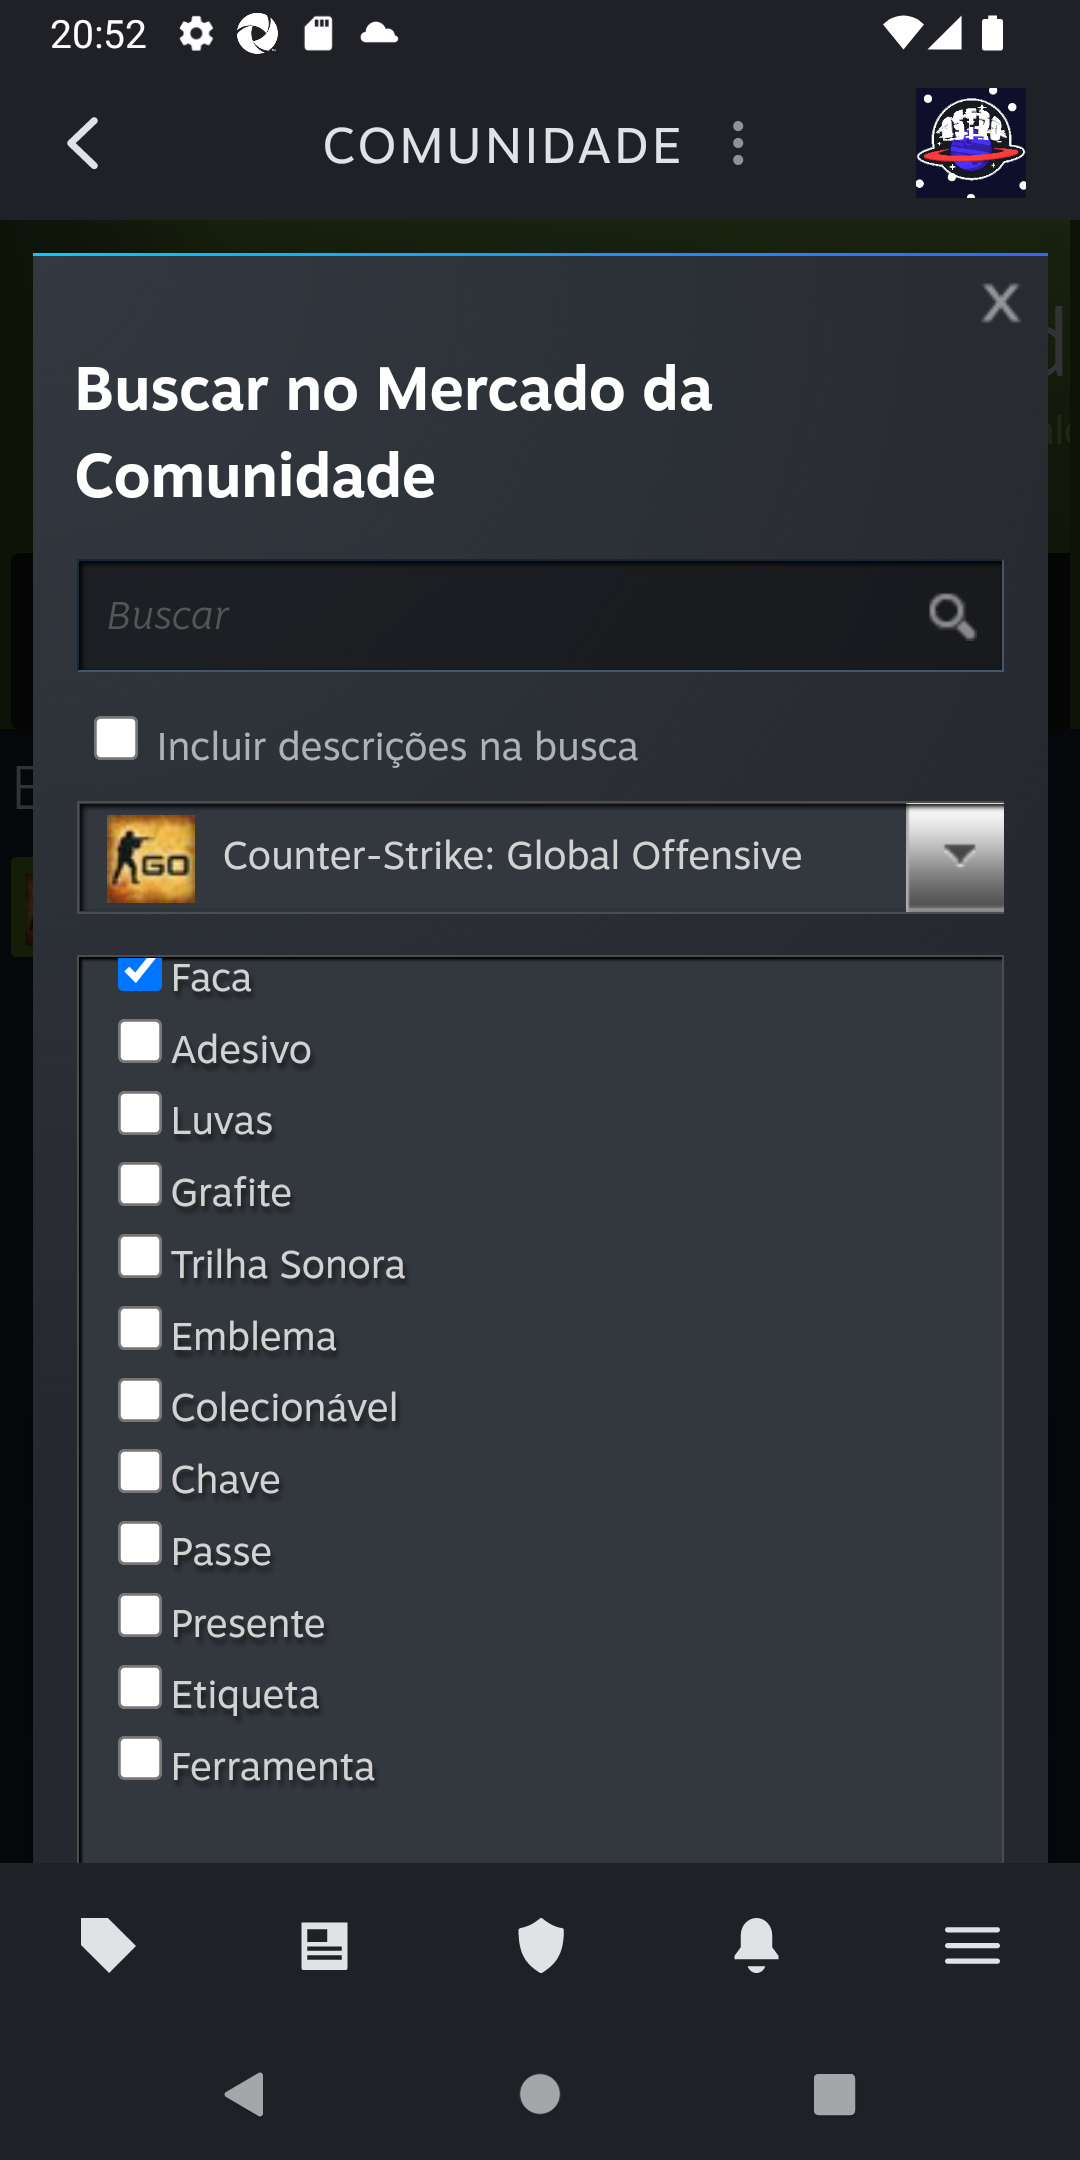
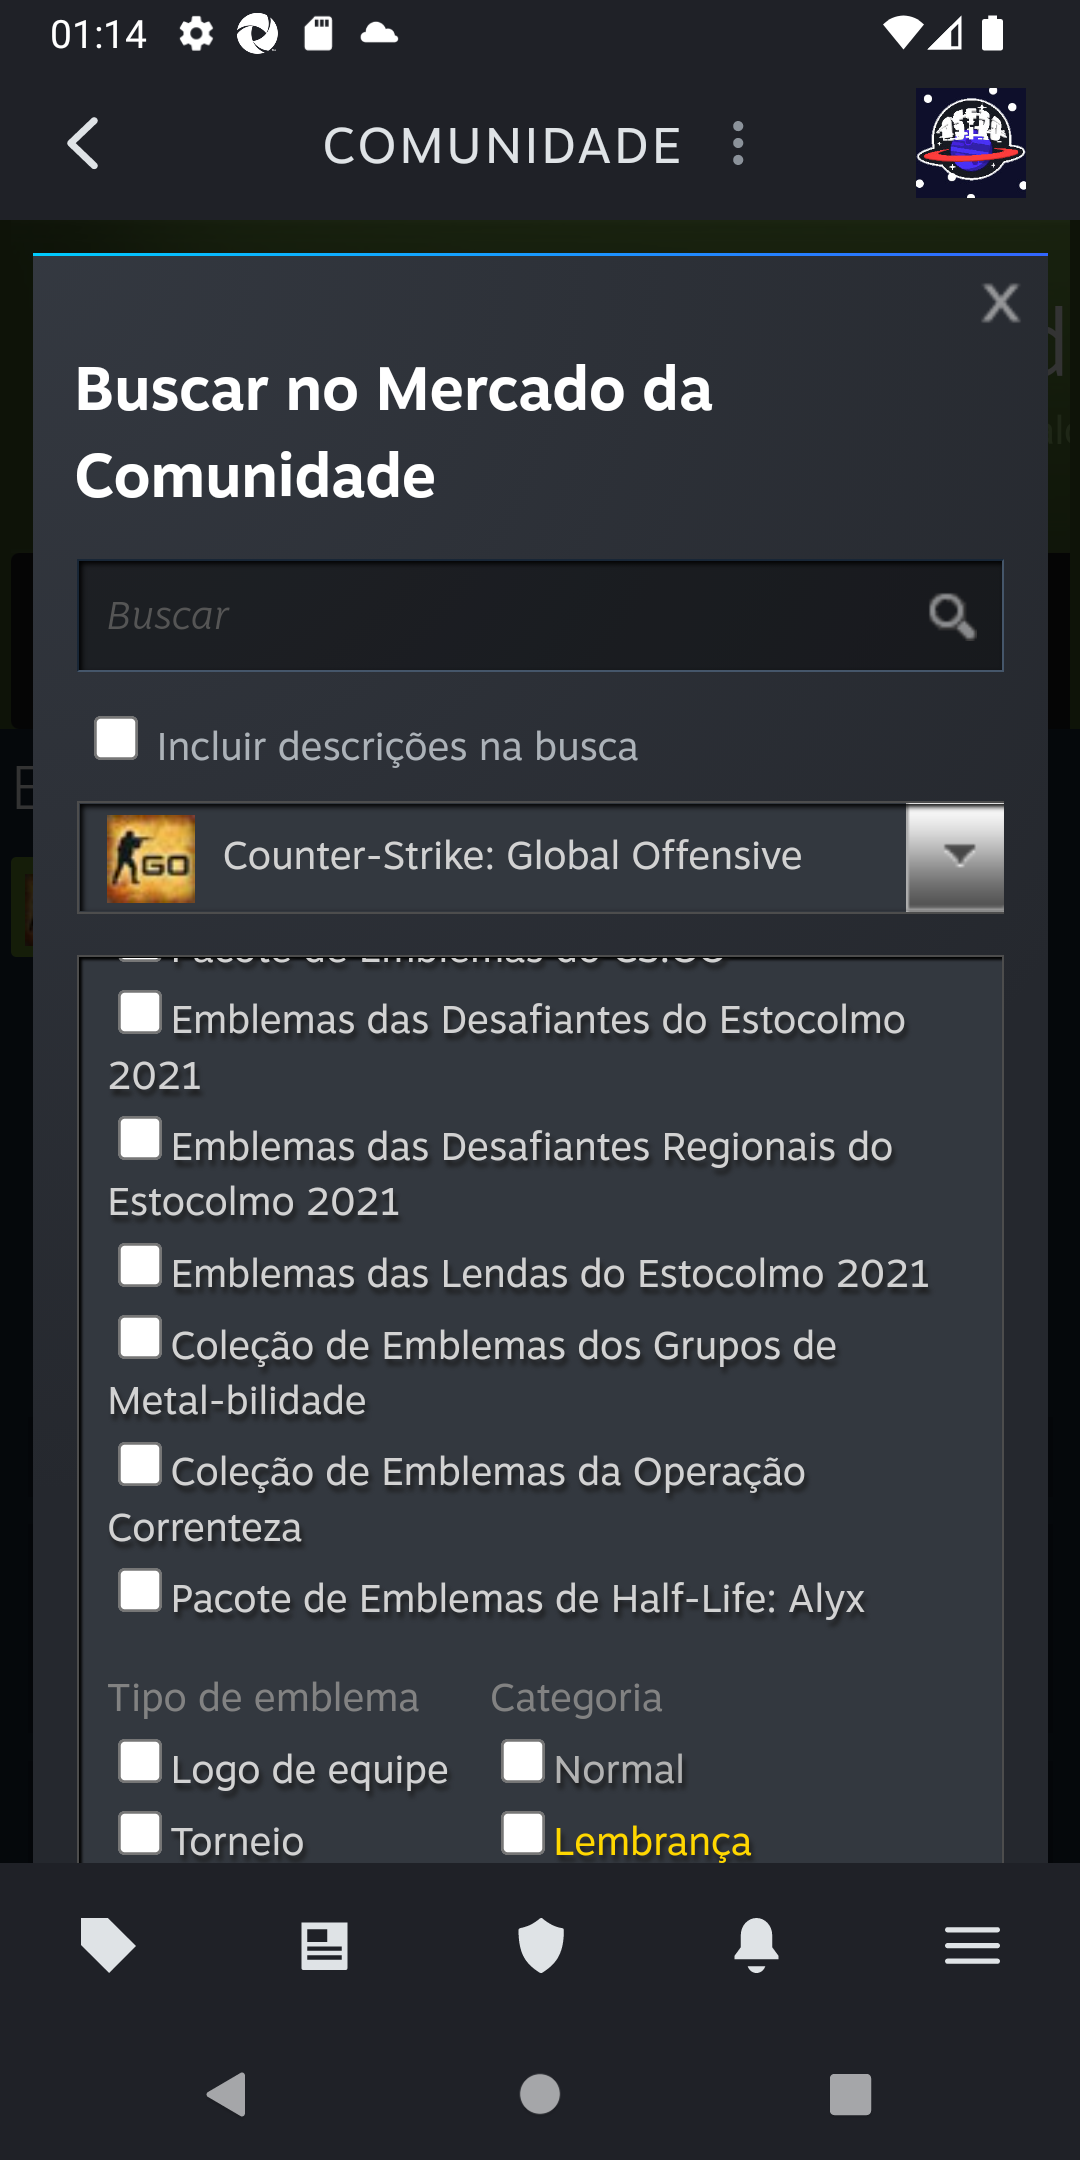
Correção do bug de escolher outro jogo, correção do scroll por filtro de faca

diff --git a/src/test/java/pages/MercadoComunidadeHomePO.java b/src/test/java/pages/MercadoComunidadeHomePO.java
@@ -20,7 +20,6 @@ public class MercadoComunidadeHomePO extends BasePage {
     public MercadoComunidadeHomePO(AndroidDriver driver) {
         super(driver);
     }
-
     Metodos metodos = new Metodos(driver);
     WebDriverWait wait = new WebDriverWait(driver, Duration.ofSeconds(30));
 
@@ -28,8 +27,9 @@ public class MercadoComunidadeHomePO extends BasePage {
 
         wait.until(ExpectedConditions.presenceOfElementLocated(By.xpath("//*[@content-desc=\"Anunciar um item\"]")));
         driver.findElement(By.xpath("/hierarchy/android.widget.FrameLayout/android.widget.LinearLayout/android.widget.FrameLayout/android.widget.LinearLayout/android.widget.FrameLayout/android.widget.FrameLayout/android.view.ViewGroup[2]/android.view.ViewGroup/android.view.ViewGroup/android.view.ViewGroup/android.view.ViewGroup/android.view.ViewGroup/android.view.ViewGroup/android.view.ViewGroup[1]/android.view.ViewGroup/android.view.ViewGroup/android.view.ViewGroup/android.view.ViewGroup[2]/android.view.ViewGroup[1]/android.webkit.WebView/android.webkit.WebView/android.view.View/android.view.View/android.view.View[1]")).click();
-        driver.findElement(By.xpath("//*[contains(@text, 'Counter-Strike')]")).click();
-
+        WebElement csgo = driver.findElement(By.xpath("//*[contains(@text, 'Counter-Strike')]"));
+        csgo.click();
+        wait.until(ExpectedConditions.stalenessOf(csgo));
         return this;
     }
 
@@ -51,10 +51,7 @@ public class MercadoComunidadeHomePO extends BasePage {
             WebElement botaoFacas = driver.findElement(By.xpath("//*[@resource-id='tag_730_Type_CSGO_Type_Knife']"));
             wait.until(ExpectedConditions.visibilityOf(botaoFacas)).click();
         }
-
-        metodos.scroll(1);
-
-
+       metodos.scroll(1);
        WebElement btnBuscar = driver.findElement(By.xpath("//*[@text='Buscar']"));
        btnBuscar.click();
 

diff --git a/src/test/java/suport/Metodos.java b/src/test/java/suport/Metodos.java
@@ -35,7 +35,7 @@ public class Metodos extends BasePage {
     public void scrollFiltroFaca(int quantidadeScroll){
 
         for (int i = 1; i <= quantidadeScroll;i++){
-            driver.findElement(AppiumBy.androidUIAutomator("new UiScrollable(new UiSelector().scrollable(true).instance(0)).setAsVerticalList().scrollForward(5)"));
+            driver.findElement(AppiumBy.androidUIAutomator("new UiScrollable(new UiSelector().scrollable(true).instance(0)).setAsVerticalList().scrollForward(10)"));
         }
     }
 
